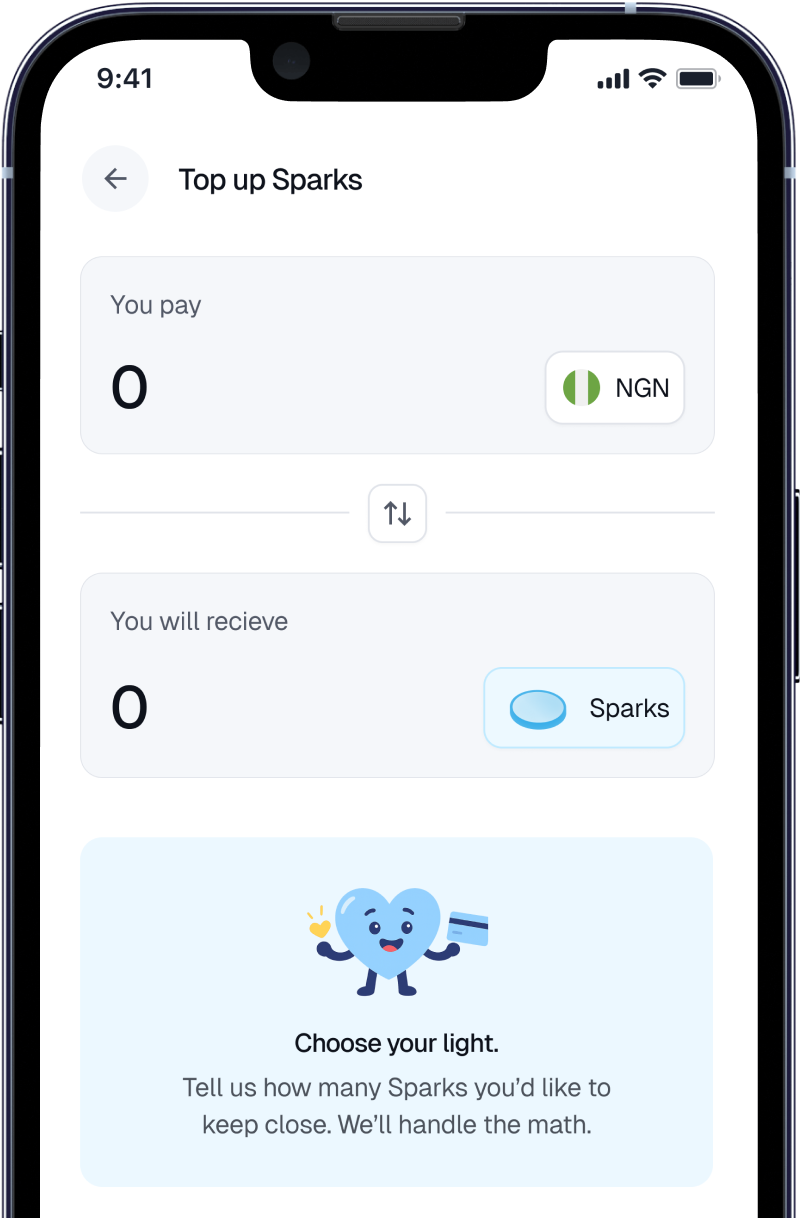
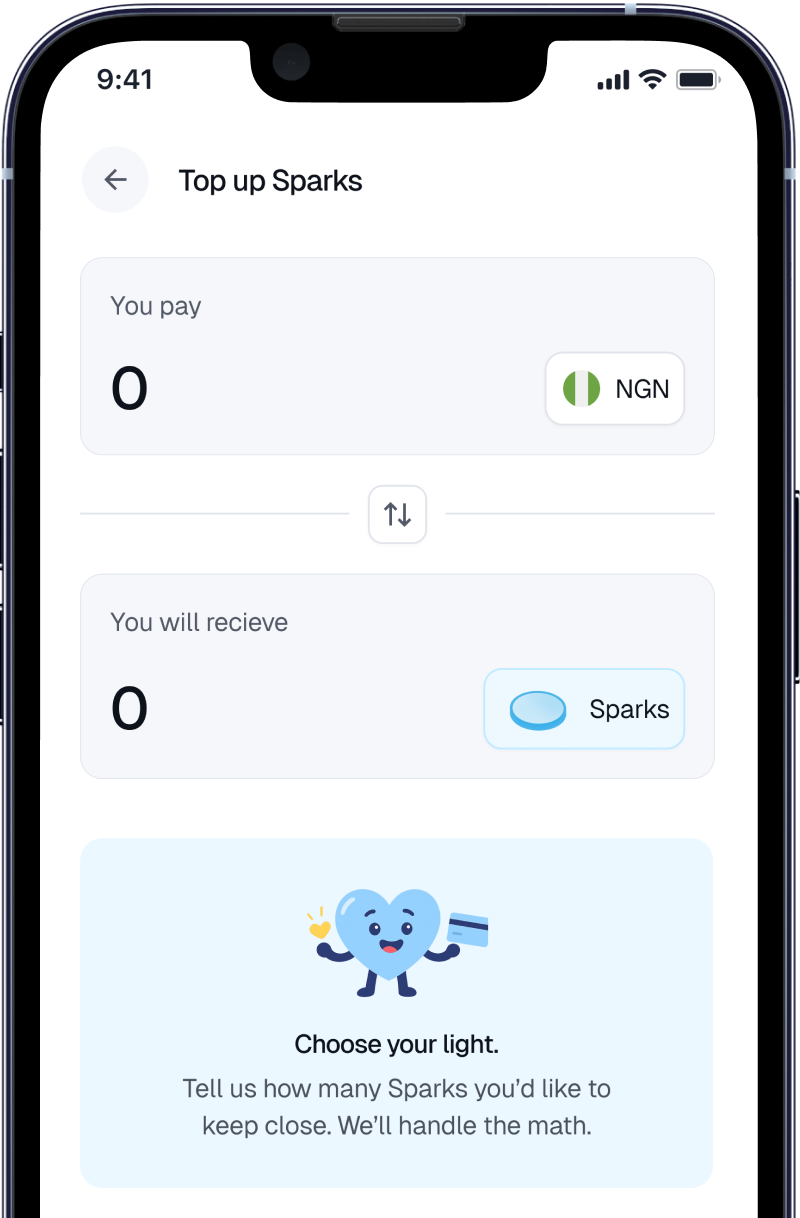
feat: add Buy Sparks section and rasterized hero phone stack
Replace the flat screen-2 stand-in with Paper-aligned Buy Sparks composition, and switch the hero to a single pre-rasterized phone stack so blur/rotation match design.

diff --git a/src/components/landing/BuySparksSection.tsx b/src/components/landing/BuySparksSection.tsx
@@ -1,0 +1,131 @@
+import Image from "next/image";
+import { landingAssets } from "./assets";
+
+const { buy: ASSETS } = landingAssets;
+
+/**
+ * Desktop composition from updated Paper Frame 267 (1464×934).
+ * Cards are pre-rotated rasters — position only, no CSS rotate.
+ * Positions are % of the 1464×934 band.
+ */
+const LAYERS = [
+  {
+    src: ASSETS.cardSuccess,
+    alt: "Sparks purchase success",
+    // left 132 / top 309 / 367×442
+    style: {
+      left: "9.02%",
+      top: "33.08%",
+      width: "25.07%",
+    },
+    width: 734,
+    height: 884,
+    zIndex: 2,
+  },
+  {
+    src: ASSETS.cardError,
+    alt: "Sparks purchase failed",
+    // left 962 / top 316 / 381×447
+    style: {
+      left: "65.71%",
+      top: "33.83%",
+      width: "26.02%",
+    },
+    width: 762,
+    height: 894,
+    zIndex: 2,
+  },
+  {
+    src: ASSETS.cardGlowGiver,
+    alt: "Glow Giver achievement",
+    // left 204 / top 626 / 363×316
+    style: {
+      left: "13.93%",
+      top: "67.02%",
+      width: "24.76%",
+    },
+    width: 726,
+    height: 632,
+    zIndex: 1,
+  },
+  {
+    src: ASSETS.cardGift,
+    alt: "Gift Sparks screen",
+    // left 867 / top 595 / 403×452
+    style: {
+      left: "59.22%",
+      top: "63.70%",
+      width: "27.53%",
+    },
+    width: 806,
+    height: 904,
+    zIndex: 1,
+  },
+  {
+    src: ASSETS.phoneTopup,
+    alt: "Top up Sparks screen",
+    // left 532 / top 341 / 400×609 (relative to band)
+    style: {
+      left: "36.34%",
+      top: "36.51%",
+      width: "27.32%",
+    },
+    width: 800,
+    height: 1218,
+    zIndex: 10,
+  },
+] as const;
+
+export default function BuySparksSection() {
+  return (
+    <section
+      id="buy-sparks"
+      className="relative w-full bg-white px-6 pb-10 pt-6 lg:px-8 lg:pb-12 lg:pt-6"
+      aria-labelledby="buy-sparks-heading"
+    >
+      <div
+        className="relative mx-auto w-full max-w-[1464px] overflow-hidden rounded-[24px] border border-[#2597D0] shadow-[0px_6px_0px_#2597D0]"
+        style={{
+          backgroundColor: "#1391C1",
+          aspectRatio: "1464 / 934",
+        }}
+      >
+        {/* Title — Paper top 71px, centered */}
+        <div
+          className="absolute left-1/2 z-20 flex w-[min(90%,649px)] -translate-x-1/2 flex-col items-center gap-4 text-center"
+          style={{ top: "7.6%" }}
+        >
+          <h2
+            id="buy-sparks-heading"
+            className="w-full max-w-[461px] font-[family-name:var(--font-landing-display)] text-[clamp(36px,4.4vw,64px)] font-normal leading-none tracking-[-0.02em] text-white"
+          >
+            Buy Sparks Invest in Yourself
+          </h2>
+          <p className="max-w-[363px] font-[family-name:var(--font-landing-body)] text-[clamp(14px,1.1vw,16px)] font-medium leading-[1.45] tracking-[-0.02em] text-white/90">
+            Emotional wellbeing starts with you. Each Spark you buy is a step
+            toward balance, self-awareness, and genuine connection.
+          </p>
+        </div>
+
+        {LAYERS.map((layer) => (
+          <div
+            key={layer.src}
+            className="absolute"
+            style={{ ...layer.style, zIndex: layer.zIndex }}
+          >
+            <Image
+              src={layer.src}
+              alt={layer.alt}
+              width={layer.width}
+              height={layer.height}
+              quality={95}
+              className="h-auto w-full"
+              sizes={`${layer.width}px`}
+              priority={layer.src === ASSETS.phoneTopup}
+            />
+          </div>
+        ))}
+      </div>
+    </section>
+  );
+}

diff --git a/src/components/landing/HeroSection.tsx b/src/components/landing/HeroSection.tsx
@@ -55,7 +55,7 @@ export default function HeroSection() {
   return (
     <section
       id="home"
-      className="relative w-full overflow-x-clip bg-white pt-20"
+      className="relative w-full overflow-hidden bg-white pt-20"
     >
       <div className="relative mx-auto flex w-full max-w-[1512px] flex-col items-center px-4 sm:px-8 md:px-12 lg:px-20">
         {/* Headline band + floaters */}
@@ -145,9 +145,9 @@ export default function HeroSection() {
           </div>
         </div>
 
-        {/* Phone stack */}
+        {/* Rasterized phone stack from Paper — sits flush at section bottom */}
         <div
-          className={`relative z-10 mt-8 w-full max-w-[720px] transition-all duration-1000 sm:mt-10 md:mt-12 md:max-w-[835px] ${
+          className={`relative z-10 mt-8 w-full max-w-[720px] pb-0 transition-all duration-1000 sm:mt-10 md:mt-12 md:max-w-[835px] ${
             isVisible ? "translate-y-0 opacity-100" : "translate-y-10 opacity-0"
           }`}
           style={{ transitionDelay: "550ms" }}
@@ -161,8 +161,7 @@ export default function HeroSection() {
             aria-hidden
           />
 
-          {/* Aspect tracks taller 2x phone mockups (~9:19.5) */}
-          <div className="relative mx-auto aspect-[835/920] w-full">
+          <div className="relative mx-auto w-full">
             {lowerFloaters.map((floater) => (
               <div
                 key={floater.src}
@@ -196,42 +195,16 @@ export default function HeroSection() {
               </div>
             ))}
 
-            <div className="absolute left-0 top-[6%] hidden w-[46%] opacity-50 sm:block">
-              <Image
-                src={ASSETS.phoneLeft}
-                alt="Ready Social achievements screen"
-                width={1100}
-                height={2383}
-                quality={90}
-                className="h-auto w-full"
-                sizes="(max-width: 640px) 0px, 380px"
-              />
-            </div>
-
-            <div className="absolute right-0 top-[6%] hidden w-[46%] opacity-50 sm:block">
-              <Image
-                src={ASSETS.phoneRight}
-                alt="Ready Social listener sessions screen"
-                width={1100}
-                height={2383}
-                quality={90}
-                className="h-auto w-full"
-                sizes="(max-width: 640px) 0px, 380px"
-              />
-            </div>
-
-            <div className="absolute left-1/2 top-0 z-10 w-[70%] -translate-x-1/2 sm:w-[46%]">
-              <Image
-                src={ASSETS.phoneCenter}
-                alt="Ready Social home screen"
-                width={1200}
-                height={2600}
-                quality={90}
-                className="h-auto w-full drop-shadow-2xl"
-                sizes="(max-width: 640px) 70vw, 400px"
-                priority
-              />
-            </div>
+            <Image
+              src={ASSETS.phoneStack}
+              alt="Ready Social app screens"
+              width={1670}
+              height={1228}
+              quality={95}
+              className="relative z-10 h-auto w-full"
+              sizes="(max-width: 835px) 100vw, 835px"
+              priority
+            />
           </div>
         </div>
       </div>

diff --git a/src/components/landing/assets.ts b/src/components/landing/assets.ts
@@ -14,9 +14,8 @@ export const landingAssets = {
     logoMark: "/landing/brand/logo-mark.svg",
   },
   hero: {
-    phoneCenter: "/landing/hero/phone-center.png",
-    phoneLeft: "/landing/hero/phone-left.png",
-    phoneRight: "/landing/hero/phone-right.png",
+    /** Pre-rasterized 3-phone stack from Paper (blur baked in) */
+    phoneStack: "/landing/hero/phone-stack.png",
     floaterSing: "/landing/hero/floater-heart-sing.png",
     floaterListen: "/landing/hero/floater-heart-listen.png",
     floaterSad: "/landing/hero/floater-heart-sad.png",
@@ -24,10 +23,10 @@ export const landingAssets = {
   },
   buy: {
     phoneTopup: "/landing/buy/phone-topup.png",
-    cardApple: "/landing/buy/card-apple.png",
-    cardCoin: "/landing/buy/card-coin.png",
-    cardPiggy: "/landing/buy/card-piggy.png",
-    cardSprout: "/landing/buy/card-sprout.png",
+    cardSuccess: "/landing/buy/card-success.png",
+    cardError: "/landing/buy/card-error.png",
+    cardGlowGiver: "/landing/buy/card-glow-giver.png",
+    cardGift: "/landing/buy/card-gift.png",
   },
   features: {
     giftSparks: "/landing/features/gift-sparks.png",

diff --git a/src/app/page.tsx b/src/app/page.tsx
@@ -3,7 +3,7 @@
 import { useEffect } from "react";
 import { usePathname } from "next/navigation";
 import Image from "next/image";
-import { HeroSection } from "@/components/landing";
+import { HeroSection, BuySparksSection } from "@/components/landing";
 import ListenerFeatures from "@/components/ListenerFeatures";
 import HeroBanner from "@/components/HeroBanner";
 import FAQ from "@/components/FAQ";
@@ -24,18 +24,7 @@ export default function Home() {
   return (
     <div className="flex flex-col min-h-screen">
       <HeroSection />
-
-      {/* New Screen 2 Section */}
-      <section className="relative w-full bg-white py-0">
-        <Image
-          src="/new screen/screen 2.png"
-          alt="How it works"
-          width={1920}
-          height={1080}
-          className="w-full h-auto"
-          priority
-        />
-      </section>
+      <BuySparksSection />
 
       {/* New Section: Links + Illustrations */}
       <section className="relative w-full bg-white py-12 sm:py-16 md:py-24 px-4 sm:px-8 md:px-12 lg:px-24 overflow-hidden">

diff --git a/src/components/landing/index.ts b/src/components/landing/index.ts
@@ -1,2 +1,3 @@
 export { default as HeroSection } from "./HeroSection";
+export { default as BuySparksSection } from "./BuySparksSection";
 export { landingAssets } from "./assets";
